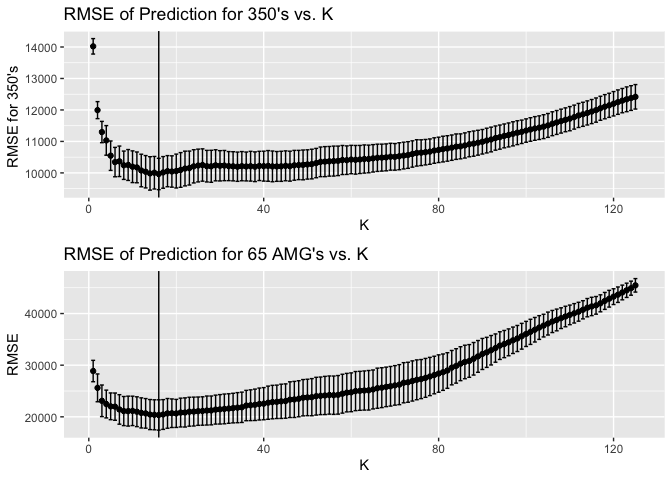
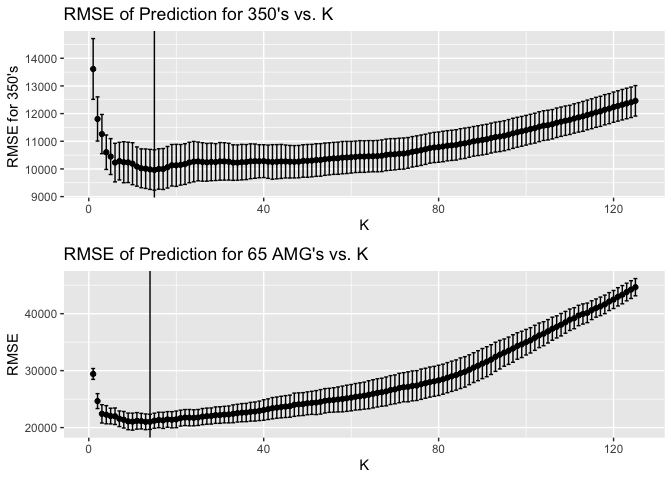
use again

diff --git a/Exercise_1.md b/Exercise_1.md
@@ -1,8 +1,3 @@
-Exercise - 1
-================
-Jipeng Cheng, Weidi Hou, Yu-Ting Huang
-2/8/2022
-
 # Data visualization: flights at ABIA
 
 ## Worst Destination Airports
@@ -12,7 +7,7 @@ We measure how “bad” these airports are with the proportion of delayed
 or cancelled flights. Four levels of flights’ states are defined as:
 
 -   On time: no delays
--   Minor delay: arrival delay \< 30 mins
+-   Minor delay: arrival delay &lt; 30 mins
 -   Major delay: arrival delay > 30 min
 -   Cancelled: flights being cancelled
 
@@ -33,39 +28,147 @@ most likely to be delayed by over 30 minutes or cancelled. The second
 follows **JFK airport** in New York. Considering that EWR also serves
 The NYC Metropolitan Area, it seems that choosing **New York** as
 destination is the real cause. Busy city and busy airports!
-<img src="Exercise_1_files/figure-gfm/fig1-1.png" title="Figure 1: Top 10 Worst Destination of 2008" alt="Figure 1: Top 10 Worst Destination of 2008" style="display: block; margin: auto;" />
+
+<img src="Exercise_1_files/figure-markdown_strict/fig1-1.png" alt="Figure 1: Top 10 Worst Destination of 2008"  />
+<p class="caption">
+Figure 1: Top 10 Worst Destination of 2008
+</p>
 
 We can also visualize the top 10 airports on a U.S. map in Figure 2 with
 blue bar refering to the values of their “Bad Index”.
 
-<img src="Exercise_1_files/figure-gfm/fig2-1.png" title="Figure 2: Top 10 Worst Destination of 2008 on Map" alt="Figure 2: Top 10 Worst Destination of 2008 on Map" style="display: block; margin: auto;" />
+<img src="Exercise_1_files/figure-markdown_strict/fig2-1.png" alt="Figure 2: Top 10 Worst Destination of 2008 on Map"  />
+<p class="caption">
+Figure 2: Top 10 Worst Destination of 2008 on Map
+</p>
+
 If you are also interested in if there are many minor delays in these
 bad flights, Figure 3 shows the proportions of all kinds of flights’
 states. If *minor delays can annoy you very much too*, then you must
 avoid choosing **Atlanta airport** as your destination among the top 10
 worst airports.
 
-<img src="Exercise_1_files/figure-gfm/fig3-1.png" title="Figure 3: Distribution of Delays in Top 10 Worst Destination of 2008" alt="Figure 3: Distribution of Delays in Top 10 Worst Destination of 2008" style="display: block; margin: auto;" />
+<img src="Exercise_1_files/figure-markdown_strict/fig3-1.png" alt="Figure 3: Distribution of Delays in Top 10 Worst Destination of 2008"  />
+<p class="caption">
+Figure 3: Distribution of Delays in Top 10 Worst Destination of 2008
+</p>
 
 Does the top list change over the months in 2008? Table 1 answers the
 question in details by focusing on the top 5 worst airports in each
 month. Definitely there are new blood across different months like
 Boston airport in February, Ontario airport in April.
 
-| Month | First | Second | Third | Fourth | Fifth |
-|------:|:------|:-------|:------|:-------|:------|
-|     1 | ORD   | CLE    | SFO   | EWR    | JAX   |
-|     2 | BOS   | ORD    | JAX   | EWR    | STL   |
-|     3 | EWR   | STL    | JFK   | ATL    | CLE   |
-|     4 | ONT   | SEA    | EWR   | DFW    | JFK   |
-|     5 | EWR   | MCI    | SJC   | OAK    | DFW   |
-|     6 | EWR   | JFK    | OAK   | IAD    | ORD   |
-|     7 | JFK   | OAK    | EWR   | ATL    | IAD   |
-|     8 | JAX   | JFK    | EWR   | LGB    | OAK   |
-|     9 | HOU   | JFK    | ORD   | EWR    | LGB   |
-|    10 | TPA   | EWR    | HRL   | IAD    | ATL   |
-|    11 | CVG   | TPA    | EWR   | MAF    | ATL   |
-|    12 | LGB   | EWR    | MAF   | ATL    | IND   |
+<table>
+<caption>Table 1: Top 5 Worst Destinations across Months</caption>
+<thead>
+<tr class="header">
+<th style="text-align: right;">Month</th>
+<th style="text-align: left;">First</th>
+<th style="text-align: left;">Second</th>
+<th style="text-align: left;">Third</th>
+<th style="text-align: left;">Fourth</th>
+<th style="text-align: left;">Fifth</th>
+</tr>
+</thead>
+<tbody>
+<tr class="odd">
+<td style="text-align: right;">1</td>
+<td style="text-align: left;">ORD</td>
+<td style="text-align: left;">CLE</td>
+<td style="text-align: left;">SFO</td>
+<td style="text-align: left;">EWR</td>
+<td style="text-align: left;">JAX</td>
+</tr>
+<tr class="even">
+<td style="text-align: right;">2</td>
+<td style="text-align: left;">BOS</td>
+<td style="text-align: left;">ORD</td>
+<td style="text-align: left;">JAX</td>
+<td style="text-align: left;">EWR</td>
+<td style="text-align: left;">STL</td>
+</tr>
+<tr class="odd">
+<td style="text-align: right;">3</td>
+<td style="text-align: left;">EWR</td>
+<td style="text-align: left;">STL</td>
+<td style="text-align: left;">JFK</td>
+<td style="text-align: left;">ATL</td>
+<td style="text-align: left;">CLE</td>
+</tr>
+<tr class="even">
+<td style="text-align: right;">4</td>
+<td style="text-align: left;">ONT</td>
+<td style="text-align: left;">SEA</td>
+<td style="text-align: left;">EWR</td>
+<td style="text-align: left;">DFW</td>
+<td style="text-align: left;">JFK</td>
+</tr>
+<tr class="odd">
+<td style="text-align: right;">5</td>
+<td style="text-align: left;">EWR</td>
+<td style="text-align: left;">MCI</td>
+<td style="text-align: left;">SJC</td>
+<td style="text-align: left;">OAK</td>
+<td style="text-align: left;">DFW</td>
+</tr>
+<tr class="even">
+<td style="text-align: right;">6</td>
+<td style="text-align: left;">EWR</td>
+<td style="text-align: left;">JFK</td>
+<td style="text-align: left;">OAK</td>
+<td style="text-align: left;">IAD</td>
+<td style="text-align: left;">ORD</td>
+</tr>
+<tr class="odd">
+<td style="text-align: right;">7</td>
+<td style="text-align: left;">JFK</td>
+<td style="text-align: left;">OAK</td>
+<td style="text-align: left;">EWR</td>
+<td style="text-align: left;">ATL</td>
+<td style="text-align: left;">IAD</td>
+</tr>
+<tr class="even">
+<td style="text-align: right;">8</td>
+<td style="text-align: left;">JAX</td>
+<td style="text-align: left;">JFK</td>
+<td style="text-align: left;">EWR</td>
+<td style="text-align: left;">LGB</td>
+<td style="text-align: left;">OAK</td>
+</tr>
+<tr class="odd">
+<td style="text-align: right;">9</td>
+<td style="text-align: left;">HOU</td>
+<td style="text-align: left;">JFK</td>
+<td style="text-align: left;">ORD</td>
+<td style="text-align: left;">EWR</td>
+<td style="text-align: left;">LGB</td>
+</tr>
+<tr class="even">
+<td style="text-align: right;">10</td>
+<td style="text-align: left;">TPA</td>
+<td style="text-align: left;">EWR</td>
+<td style="text-align: left;">HRL</td>
+<td style="text-align: left;">IAD</td>
+<td style="text-align: left;">ATL</td>
+</tr>
+<tr class="odd">
+<td style="text-align: right;">11</td>
+<td style="text-align: left;">CVG</td>
+<td style="text-align: left;">TPA</td>
+<td style="text-align: left;">EWR</td>
+<td style="text-align: left;">MAF</td>
+<td style="text-align: left;">ATL</td>
+</tr>
+<tr class="even">
+<td style="text-align: right;">12</td>
+<td style="text-align: left;">LGB</td>
+<td style="text-align: left;">EWR</td>
+<td style="text-align: left;">MAF</td>
+<td style="text-align: left;">ATL</td>
+<td style="text-align: left;">IND</td>
+</tr>
+</tbody>
+</table>
 
 Table 1: Top 5 Worst Destinations across Months
 
@@ -75,38 +178,104 @@ Figure 4. There are 23 airports in all of the monthly lists, and this
 also support our conclusion from yearly list: all 12 lists contains EWR
 and 6 lists contains JFK.
 
-<img src="Exercise_1_files/figure-gfm/fig4-1.png" title="Figure 4: Frequency of Appearances in Top 5 Worst Destinations across Months" alt="Figure 4: Frequency of Appearances in Top 5 Worst Destinations across Months" style="display: block; margin: auto;" />
+<img src="Exercise_1_files/figure-markdown_strict/fig4-1.png" alt="Figure 4: Frequency of Appearances in Top 5 Worst Destinations across Months"  />
+<p class="caption">
+Figure 4: Frequency of Appearances in Top 5 Worst Destinations across
+Months
+</p>
 
 ## Best Month to Depart from AUS
 
 According to the following graph, it shows that September has the lowest
 delay rate in 2008.
-<img src="Exercise_1_files/figure-gfm/fig5-1.png" title="Figure 5: Delay Rate by Month in 2008" alt="Figure 5: Delay Rate by Month in 2008" style="display: block; margin: auto;" />
+
+<img src="Exercise_1_files/figure-markdown_strict/fig5-1.png" alt="Figure 5: Delay Rate by Month in 2008"  />
+<p class="caption">
+Figure 5: Delay Rate by Month in 2008
+</p>
 
 # Wrangling the Billboard Top 100
 
 ## Part A
 
-| Performer                                 | Song                                | Count |
-|:------------------------------------------|:------------------------------------|------:|
-| Imagine Dragons                           | Radioactive                         |    87 |
-| AWOLNATION                                | Sail                                |    79 |
-| Jason Mraz                                | I’m Yours                           |    76 |
-| The Weeknd                                | Blinding Lights                     |    76 |
-| LeAnn Rimes                               | How Do I Live                       |    69 |
-| LMFAO Featuring Lauren Bennett & GoonRock | Party Rock Anthem                   |    68 |
-| OneRepublic                               | Counting Stars                      |    68 |
-| Adele                                     | Rolling In The Deep                 |    65 |
-| Jewel                                     | Foolish Games/You Were Meant For Me |    65 |
-| Carrie Underwood                          | Before He Cheats                    |    64 |
+<table>
+<caption>Table 2: Top 10 Most Popular Songs Since 1958</caption>
+<thead>
+<tr class="header">
+<th style="text-align: left;">Performer</th>
+<th style="text-align: left;">Song</th>
+<th style="text-align: right;">Count</th>
+</tr>
+</thead>
+<tbody>
+<tr class="odd">
+<td style="text-align: left;">Imagine Dragons</td>
+<td style="text-align: left;">Radioactive</td>
+<td style="text-align: right;">87</td>
+</tr>
+<tr class="even">
+<td style="text-align: left;">AWOLNATION</td>
+<td style="text-align: left;">Sail</td>
+<td style="text-align: right;">79</td>
+</tr>
+<tr class="odd">
+<td style="text-align: left;">Jason Mraz</td>
+<td style="text-align: left;">I’m Yours</td>
+<td style="text-align: right;">76</td>
+</tr>
+<tr class="even">
+<td style="text-align: left;">The Weeknd</td>
+<td style="text-align: left;">Blinding Lights</td>
+<td style="text-align: right;">76</td>
+</tr>
+<tr class="odd">
+<td style="text-align: left;">LeAnn Rimes</td>
+<td style="text-align: left;">How Do I Live</td>
+<td style="text-align: right;">69</td>
+</tr>
+<tr class="even">
+<td style="text-align: left;">LMFAO Featuring Lauren Bennett &amp; GoonRock</td>
+<td style="text-align: left;">Party Rock Anthem</td>
+<td style="text-align: right;">68</td>
+</tr>
+<tr class="odd">
+<td style="text-align: left;">OneRepublic</td>
+<td style="text-align: left;">Counting Stars</td>
+<td style="text-align: right;">68</td>
+</tr>
+<tr class="even">
+<td style="text-align: left;">Adele</td>
+<td style="text-align: left;">Rolling In The Deep</td>
+<td style="text-align: right;">65</td>
+</tr>
+<tr class="odd">
+<td style="text-align: left;">Jewel</td>
+<td style="text-align: left;">Foolish Games/You Were Meant For Me</td>
+<td style="text-align: right;">65</td>
+</tr>
+<tr class="even">
+<td style="text-align: left;">Carrie Underwood</td>
+<td style="text-align: left;">Before He Cheats</td>
+<td style="text-align: right;">64</td>
+</tr>
+</tbody>
+</table>
 
 Table 2: Top 10 Most Popular Songs Since 1958
 
 ## Part B
 
-<img src="Exercise_1_files/figure-gfm/fig6-1.png" title="Figure 6: Musical Diversity Over Time" alt="Figure 6: Musical Diversity Over Time" style="display: block; margin: auto;" />
+<img src="Exercise_1_files/figure-markdown_strict/fig6-1.png" alt="Figure 6: Musical Diversity Over Time"  />
+<p class="caption">
+Figure 6: Musical Diversity Over Time
+</p>
+
 ## Part C
-<img src="Exercise_1_files/figure-gfm/fig7-1.png" title="Figure 7: Artists Having over 30 Ten-Week-Hits Songs" alt="Figure 7: Artists Having over 30 Ten-Week-Hits Songs" style="display: block; margin: auto;" />
+
+<img src="Exercise_1_files/figure-markdown_strict/fig7-1.png" alt="Figure 7: Artists Having over 30 Ten-Week-Hits Songs"  />
+<p class="caption">
+Figure 7: Artists Having over 30 Ten-Week-Hits Songs
+</p>
 
 # Wrangling the Olympics
 
@@ -120,32 +289,56 @@ Athletics events is **183cm**.
 
 ## Part B
 
-| Event                      | Height Variability |
-|:---------------------------|-------------------:|
-| Rowing Women’s Coxed Fours |           10.86549 |
+<table>
+<thead>
+<tr class="header">
+<th style="text-align: left;">Event</th>
+<th style="text-align: right;">Height Variability</th>
+</tr>
+</thead>
+<tbody>
+<tr class="odd">
+<td style="text-align: left;">Rowing Women’s Coxed Fours</td>
+<td style="text-align: right;">10.86549</td>
+</tr>
+</tbody>
+</table>
 
 It is shown that women’s coxed four rowing had the greatest variability
 in competitor’s heights across the entire history of the Olympics.
 
 ## Part C
 
-<img src="Exercise_1_files/figure-gfm/fig8-1.png" title="Figure 8: Increasing Trend of Age Similar Across Female and Male Swimmers' Age After Female Participation in Olympics" alt="Figure 8: Increasing Trend of Age Similar Across Female and Male Swimmers' Age After Female Participation in Olympics" style="display: block; margin: auto;" />
+<img src="Exercise_1_files/figure-markdown_strict/fig8-1.png" alt="Figure 8: Increasing Trend of Age Similar Across Female and Male Swimmers' Age After Female Participation in Olympics"  />
+<p class="caption">
+Figure 8: Increasing Trend of Age Similar Across Female and Male
+Swimmers’ Age After Female Participation in Olympics
+</p>
 
 # K-nearest neighbors
 
-<img src="Exercise_1_files/figure-gfm/fig9-1.png" title="Figure 9: RMSE vs. K" alt="Figure 9: RMSE vs. K" style="display: block; margin: auto;" />
+<img src="Exercise_1_files/figure-markdown_strict/fig9-1.png" alt="Figure 9: RMSE vs. K"  />
+<p class="caption">
+Figure 9: RMSE vs. K
+</p>
+
 Thus, the graphs show that the optimal K for predicting 350’s prices
 with KNN method should be
 
-    ## [1] 16
+    ## [1] 14
 
 and the optimal K for predicting 65 AMG’s price with KNN method should
 be
 
-    ## [1] 16
+    ## [1] 14
 
 given they yield the smallest RMSEs respectively.
-<img src="Exercise_1_files/figure-gfm/fig10-1.png" title="Figure 10: Prediction vs. Testing Set" alt="Figure 10: Prediction vs. Testing Set" style="display: block; margin: auto;" />
+
+<img src="Exercise_1_files/figure-markdown_strict/fig10-1.png" alt="Figure 10: Prediction vs. Testing Set"  />
+<p class="caption">
+Figure 10: Prediction vs. Testing Set
+</p>
+
 The trim of 350 tends to yield a larger optimal value of K. This might
 be because the sample size of 350’s is larger and allows a bigger K to
 capture more information, reduce estimation bias, and avoid being
